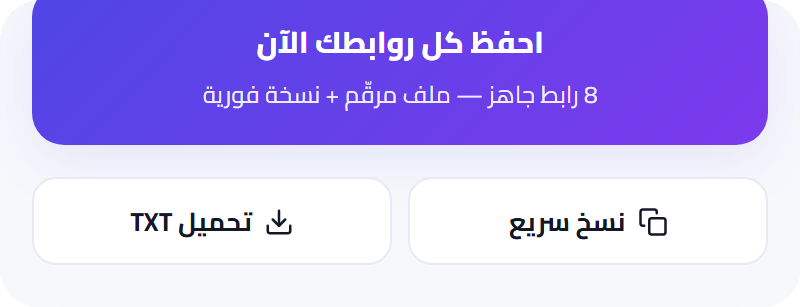
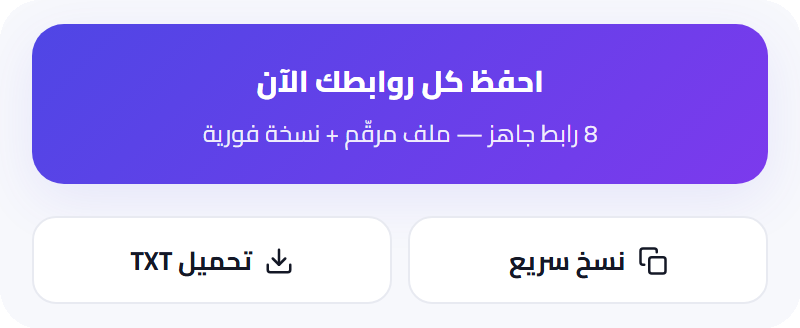
docs: numbered FAQ; re-crop section shots with balanced margins; 20px rounding on all images

Changed region(s): [[0.0312, 0.0, 0.9688, 0.5863], [0.1562, 0.6743, 0.375, 0.8502], [0.625, 0.6743, 0.8438, 0.8502]]

diff --git a/README.md b/README.md
@@ -183,16 +183,16 @@
 
 ## 8. أسئلة شائعة
 
-**هل يعمل بدون إنترنت؟**
+**8.1 هل يعمل بدون إنترنت؟**
 نعم بالكامل؛ فقط خط Cairo يُحمَّل من جوجل وله بديل تلقائي عند الانقطاع.
 
-**هل تُجمَع بياناتي؟**
+**8.2 هل تُجمَع بياناتي؟**
 لا — لا يوجد أي كود شبكة في الإضافة، وراجع الكود بنفسك.
 
-**أريد صيغة ترقيم مختلفة؟**
+**8.3 أريد صيغة ترقيم مختلفة؟**
 من «خصّص التصدير ← تنسيق الترقيم»: `1.` أو `1)` أو `-`.
 
-**التصدير لا يشمل تبويبًا معينًا؟**
+**8.4 التصدير لا يشمل تبويبًا معينًا؟**
 تأكد أنه محدد في المعاينة، وأنه ليس صفحة نظام مستثناة، وأنه ليس مكررًا محذوفًا.
 
 ---
